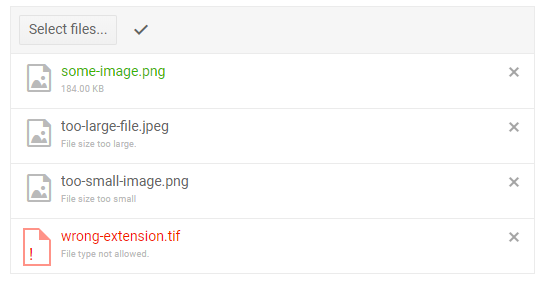
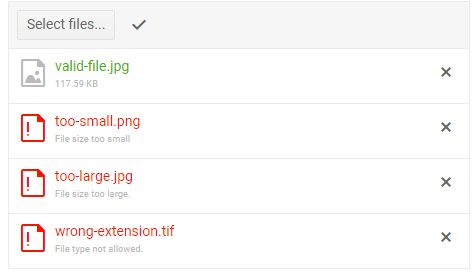
chore(upload): update validation screenshot, minor cleanups and syncs with source

diff --git a/components/upload/overview.md b/components/upload/overview.md
@@ -152,9 +152,9 @@ To use a Telerik Upload for Blazor
 
 >caption The Upload provides the following key features:
 
-* `AutoUpload` - Specifies whether the upload of a file should start immediately upon its selection, or the user must click the "Upload" button.
+* `AutoUpload` - Specifies whether the upload of a file should start immediately upon its selection, or the user must click the "Upload" button. Defaults to `true`.
 * `Enabled` - Whether the component is enabled for the end user.
-* `Multiple` - Enables the selection of multiple files. If set to `false` (the default value for a boolean field), only one file can be selected at a time.
+* `Multiple` - Enables the selection of multiple files. If set to `false` (defaults to `true`), only one file can be selected at a time.
 * `RemoveField` - Sets the `FormData` key which contains the file names submitted to the `RemoveUrl` endpoint when the user clicks the individual [x] button on the chosen files. Defaults to `files`.
 * `RemoveUrl`- Sets the URL of the endpoint for the remove request. The `FormData` request key is named after the `RemoveField` parameter. It contains the list of file names which should be removed from the server. The handler must accept POST requests which contain one or more fields with the same name as the `RemoveField`.
 * `SaveField` - Sets the `FormData` key which contains the files submitted to the `SaveUrl` endpoint. Defaults to `files`.

diff --git a/components/upload/validation.md b/components/upload/validation.md
@@ -26,6 +26,8 @@ Removing invalid files from the [x] button in the UI will not call the `RemoveUr
 
 >caption Client validation in Telerik Async Upload
 
+@[template](/_contentTemplates/upload/notes.md#see-controller-sample-in-overview)
+
 ````CSHTML
 @* Some images are only allowed, min size 1KB, max size 2MB
     This sample does not showcase a controller that consumes these files for brevity
@@ -35,7 +37,7 @@ Removing invalid files from the [x] button in the UI will not call the `RemoveUr
 <TelerikUpload AllowedExtensions="@( new List<string>() { ".jpg", ".png", ".jpeg" } )"
                MaxFileSize="2048000"
                MinFileSize="1024"
-               SaveUrl="@uploadHandler" RemoveUrl="@removeHandler" Multiple="true" AutoUpload="true" />
+               SaveUrl="@uploadHandler" RemoveUrl="@removeHandler" />
 
 @code{
     string uploadHandler = "/api/upload/save";
